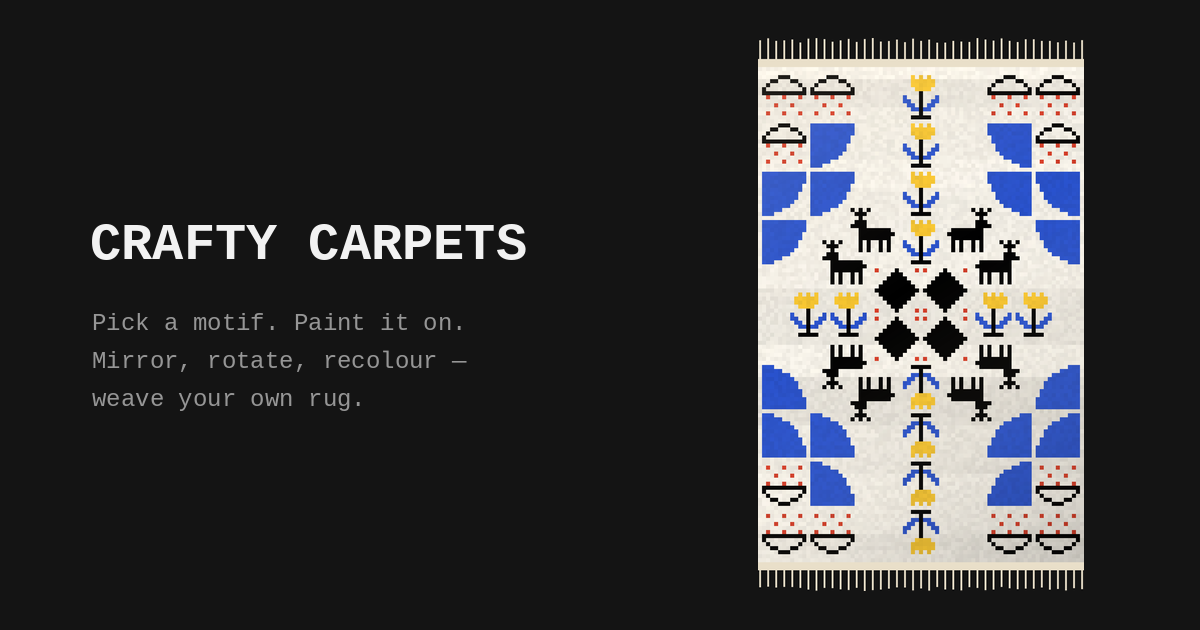
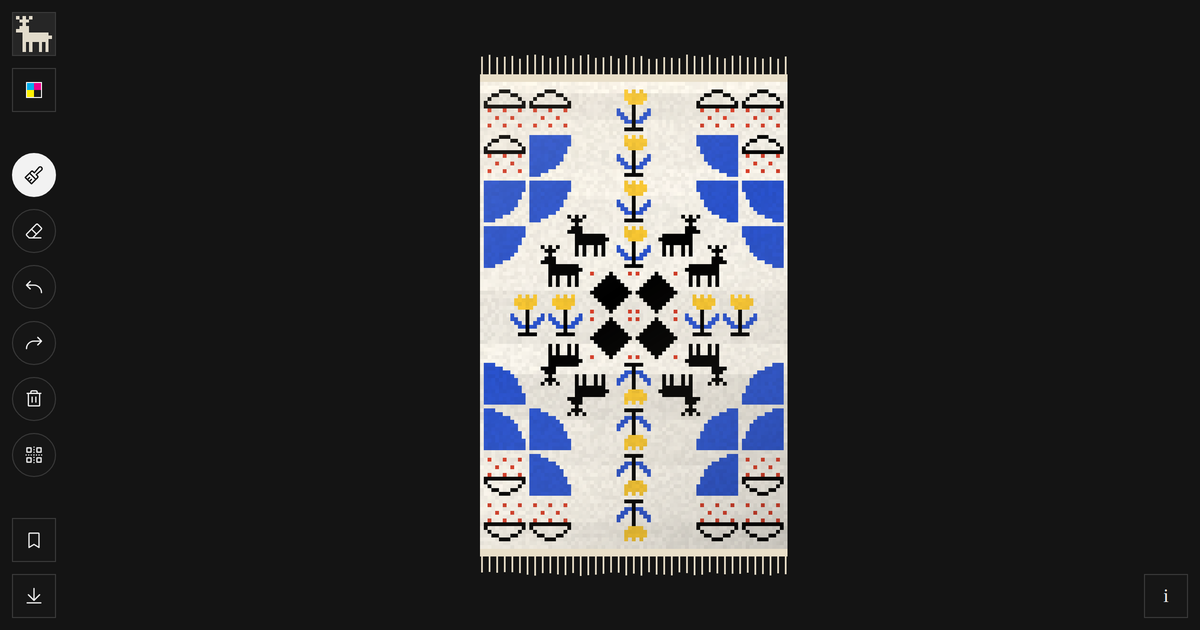
Add files via upload

diff --git a/index.html b/index.html
@@ -11,7 +11,7 @@
 <meta property="og:type" content="website">
 <meta property="og:title" content="Crafty Carpets">
 <meta property="og:description" content="Weave your own rug: pick motifs, paint them onto a knotted grid, mirror, rotate, recolour and export.">
-<meta property="og:image" content="https://dinefining.github.io/crafty-carpets/og.png?v=3">
+<meta property="og:image" content="https://dinefining.github.io/crafty-carpets/og.png?v=4">
 <meta name="twitter:card" content="summary_large_image">
 <link rel="preconnect" href="https://fonts.googleapis.com">
 <link rel="preconnect" href="https://fonts.gstatic.com" crossorigin>
